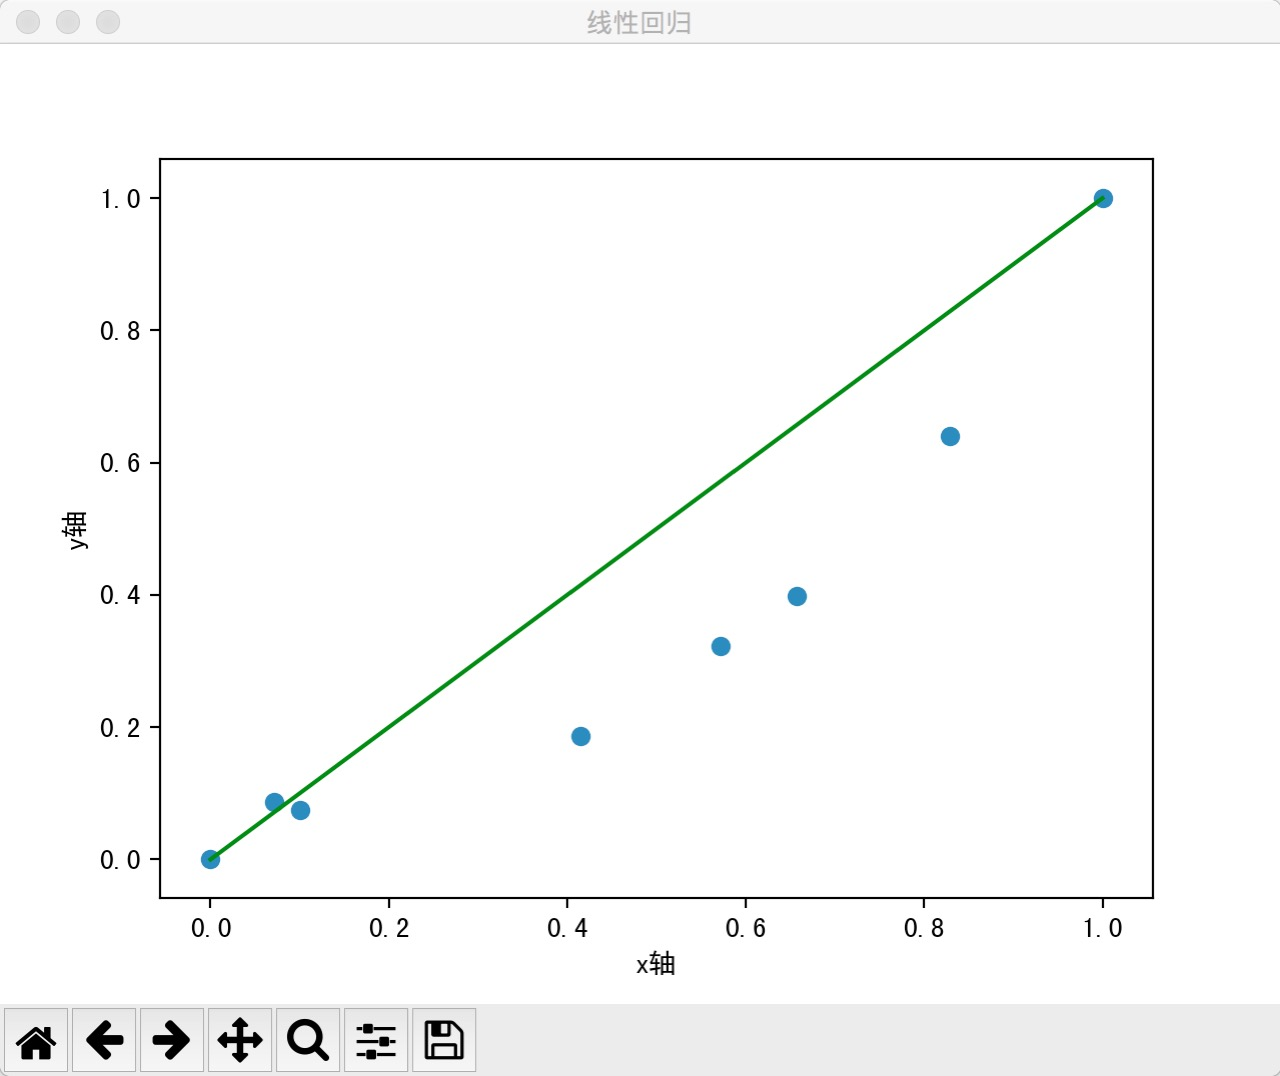
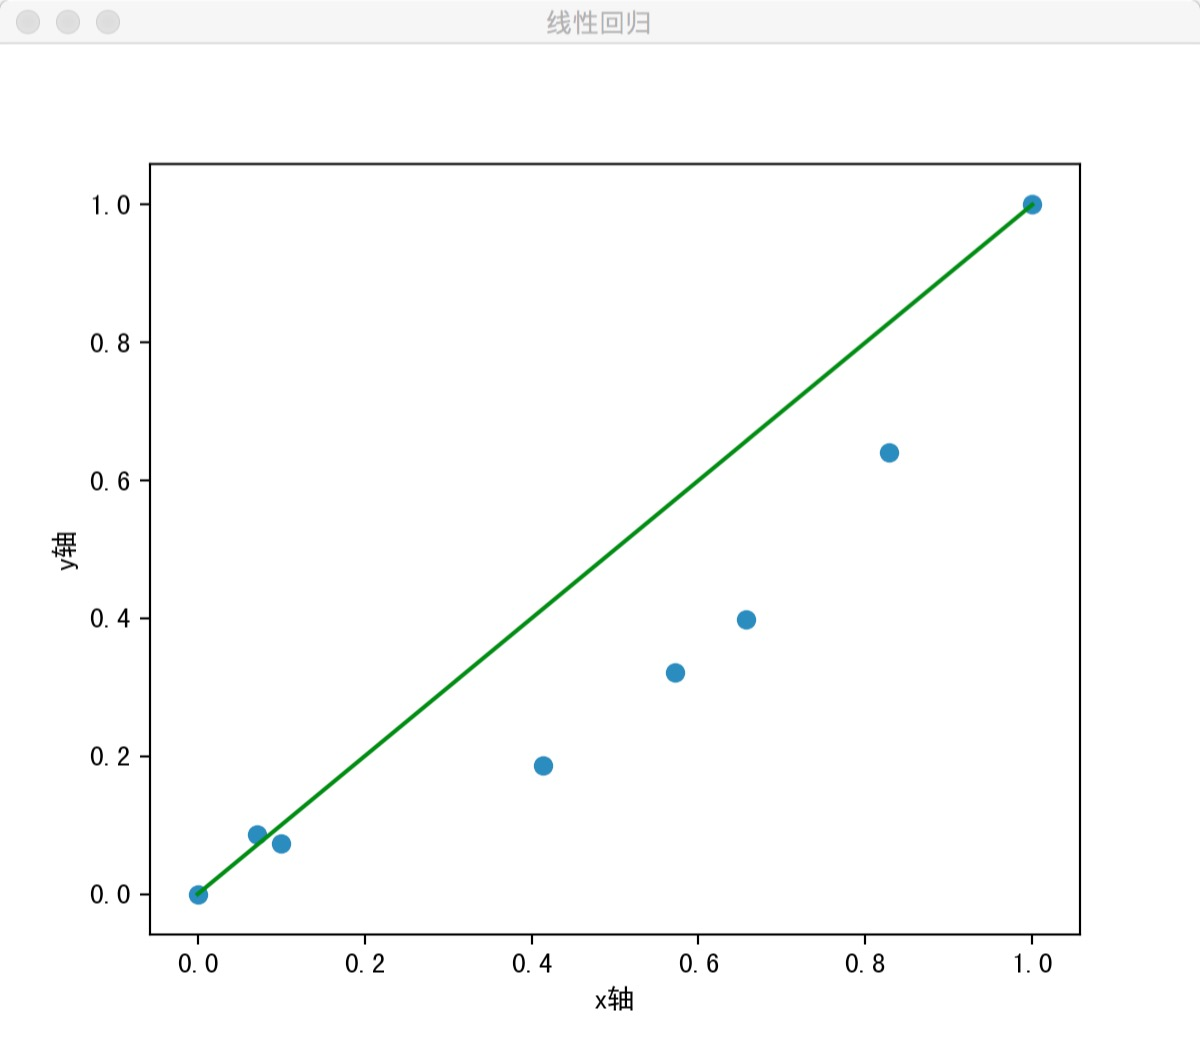
resize pic 1.jpg

diff --git a/1_linear_regression.py b/1_linear_regression.py
@@ -19,7 +19,7 @@ if __name__ == '__main__':
 	loss = sum(np.square(np.round(yp-y,4))) / (2*len(x))
 	print("loss = %f" % loss)
 
-	plt.figure(u'线性回归')
+	plt.figure(u'线性回归', figsize=(6,5))
 	plt.xlabel(u"x轴")
 	plt.ylabel(u"y轴")
 
